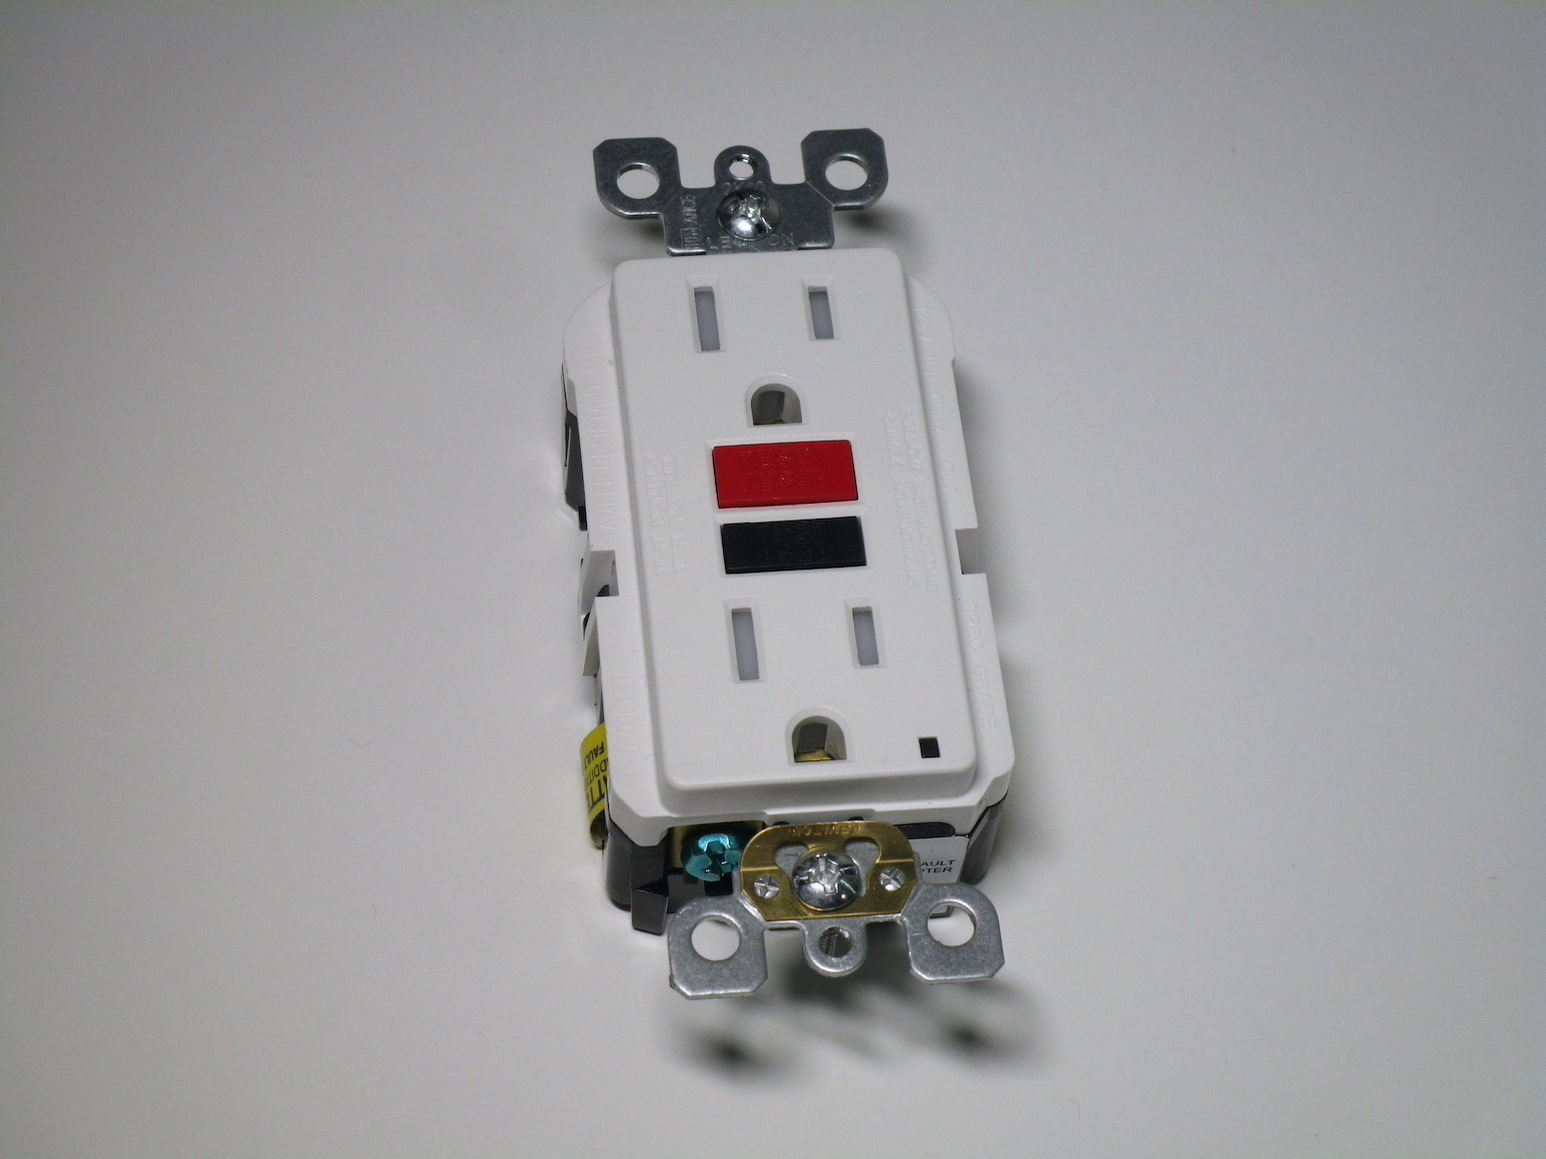
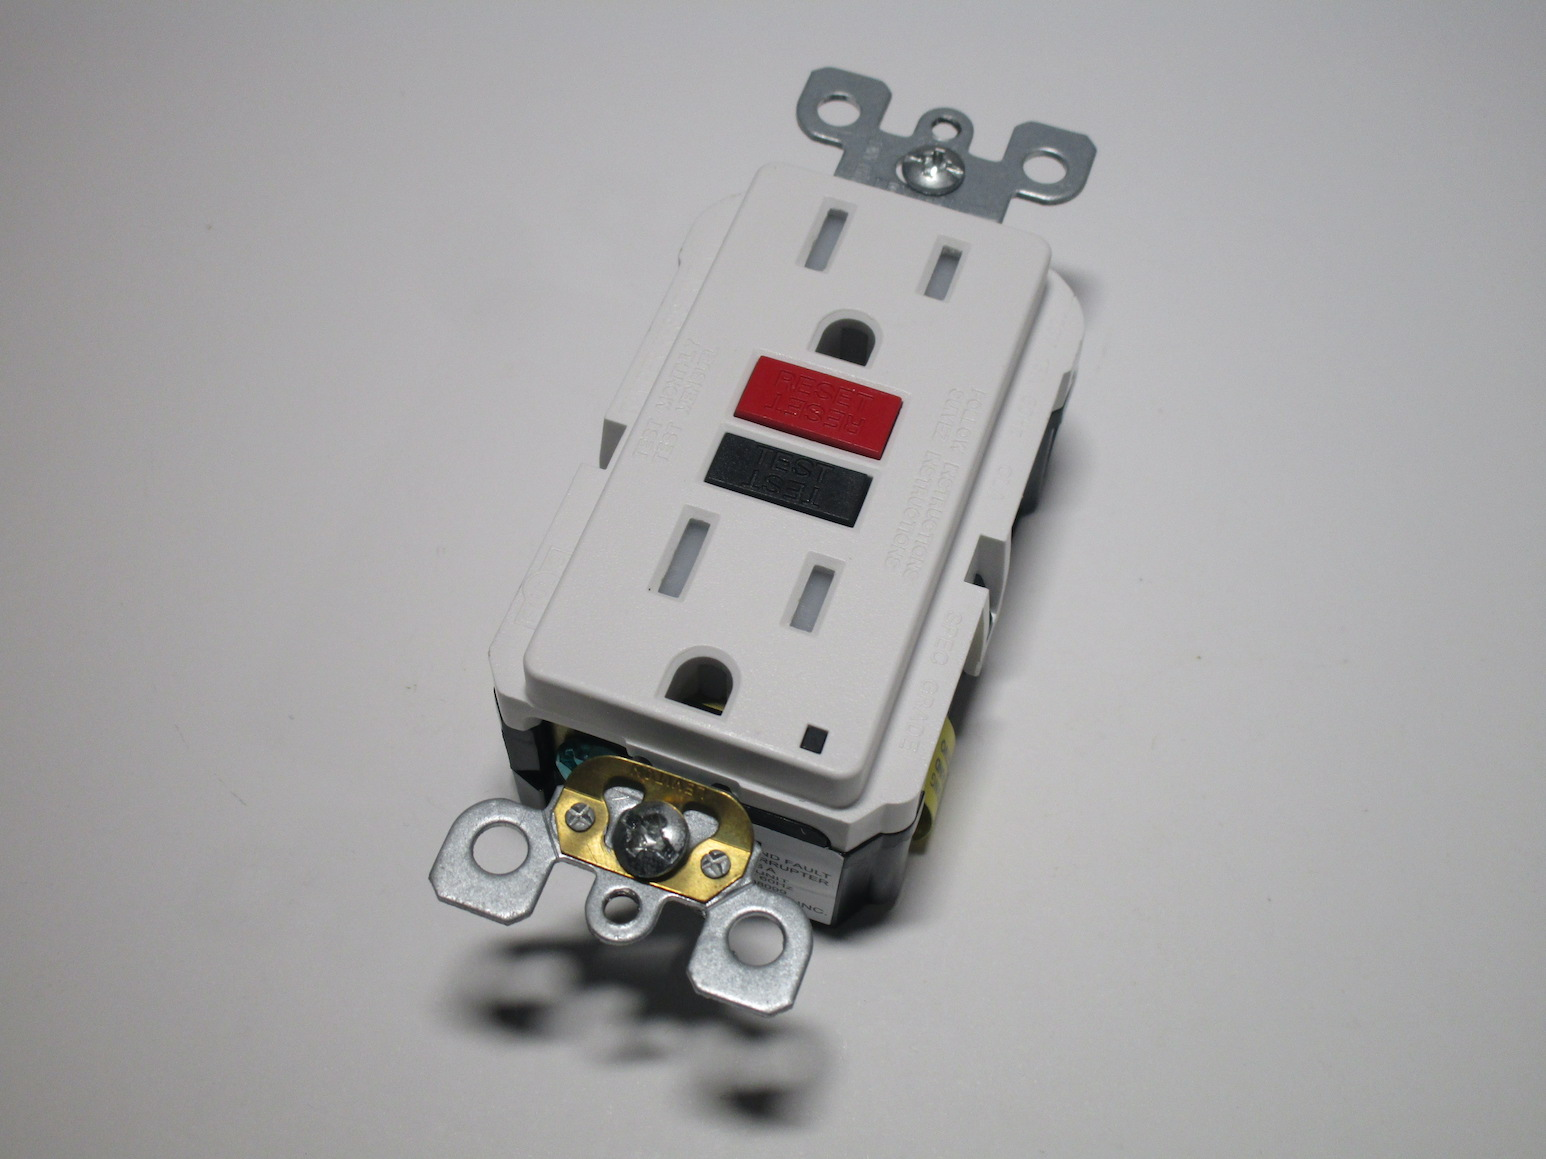
new pics and updates

Changed region(s): [[0.0, 0.0, 0.9625, 0.994], [0.6831, 0.2174, 0.7141, 0.2485]]

diff --git a/other/electrical_stuff/foreign_stuff_european.html b/other/electrical_stuff/foreign_stuff_european.html
@@ -4,7 +4,7 @@
 <title>Electrical items from Europe</title>
 <meta charset="utf-8">
 <meta name="viewport" content="width=device-width, initial-scale=1">
-<meta name="description" content="An overview of electrical items in the rest of Europe, how they're built, and how they're wired up.">
+<meta name="description" content="An overview of electrical items present in most of Europe, how they're built, and how they're wired up.">
 <meta name="author" content="samuele963">
 <link rel="stylesheet" href="../../styles.css">
 <link rel="icon" type="image/png" href="favicon.png">
@@ -18,14 +18,14 @@
 
 <div class="content">
   <h2>Electrical items from other European countries</h2>
-  <h3 id="german">Continental European items</h3>
   <p>
     This is an overview of the electrical items used in most of Europe (which are often based on German standards).
-    While similar, generally, to Italian stuff, there are still quite a few differences, primarily in the sockets
+    While similar, generally, to Italian devices, there are still quite a few differences, primarily in the sockets
     (European wall boxes are different from modern Italian ones and thus the sockets are designed totally differently)
     and certain elements of the way power is distributed inside a home.
   </p>
 
+  <h3 id="german">German-style ("Schuko") plugs and sockets</h3>
   <h4>Standard Schuko socket</h4>
   <p><i>Rating: 16A 250V</i></p>
   <p>
@@ -37,6 +37,10 @@
     The socket is installed by removing the single screw on the front, which removes the front plastic piece.
     It is then possible to wire it up and install it, then the cover plate can be installed and finally the
     front plastic can be reinstalled.
+  </p>
+  <p>
+    Notably, this socket has safety shutters - not all countries in Europe mandate this universally, though shuttered
+    sockets are generally always easily available in hardware stores, and present on power strips or extension cords.
   </p>
   <a href="images/foreign/german_01a.jpg"><img src="images/foreign/german_01a.jpg" height="140"></a>
   <a href="images/foreign/german_01b.jpg"><img src="images/foreign/german_01b.jpg" height="140"></a>
@@ -55,61 +59,6 @@
   <a href="images/foreign/german_02a.jpg"><img src="images/foreign/german_02a.jpg" height="140"></a>
   <a href="images/foreign/german_02b.jpg"><img src="images/foreign/german_02b.jpg" height="140"></a>
   <a href="images/foreign/german_02c.jpg"><img src="images/foreign/german_02c.jpg" height="140"></a>
-
-  <h4>Modern lightswitch with screwless terminals</h4>
-  <p><i>Rating: 10A 250V</i></p>
-  <p>
-    This double lightswitch, made by Legrand, is very elegant and modern-looking.<br>
-    Its main feature however is the style of terminals used to connect the wires: it uses screwless terminals,
-    something that's slowly becoming more common in Europe and which allows for a much easier and quicker installation. 
-  </p>
-  <p>
-    The way screwless terminals work depends on the specific manufacturer, however on this device wires are installed or
-    removed from a specific terminal by pushing on a small lever next to the terminal. Once let go, this holds the wire
-    extremely well and doesn't allow it to be removed (even if force is applied) unless the button is pushed again.
-  </p>
-  <a href="images/foreign/lightswitch_01a.jpg"><img src="images/foreign/lightswitch_01a.jpg" height="140"></a>
-  <a href="images/foreign/lightswitch_01b.jpg"><img src="images/foreign/lightswitch_01b.jpg" height="140"></a>
-  <a href="images/foreign/lightswitch_01c.jpg"><img src="images/foreign/lightswitch_01c.jpg" height="140"></a>
-
-  <h4>Vintage bakelite plug</h4>
-  <p><i>Rating: 10A 250V</i></p>
-  <p>
-    This old plug is of the style commonly used in most of continental Europe before the more local earthed variations.
-    Like other versions of that type of plug, it has a fairly distinctive round body, which on sockets with a deep
-    recess (unfortunately most of the sockets used with these plugs had a fairly shallow recess) make it impossible
-    to accidentally come in contact with the live pins on a partially-inserted plug.
-  </p>
-  <p>
-    Notably, this style of plug won't work with Schuko or French sockets, as on both the earth connection (and, on
-    the Schuko sockets, some extra plastic as well) interferes with the insertion of the plug.
-    Thus, this plug will only work with sockets of the period (or the Danish sockets).
-  <br>
-    Additionally, this specific plug uses 4.0mm pins, which makes it possible to use it with Italian sockets.
-  </p>
-  <a href="images/foreign_old/german_old_01a.jpg"><img src="images/foreign_old/german_old_01a.jpg" height="140"></a>
-  <a href="images/foreign_old/german_old_01b.jpg"><img src="images/foreign_old/german_old_01b.jpg" height="140"></a>
-
-  <h4 id="diazed">Diazed fuses</h4>
-  <p>
-    Diazed fuses were the standard type of fuse used in most of Europe (although, <a href="fuse_breaker_boxes.html">
-    as mentioned previously</a>, they weren't as popular in Italy).
-    They're a very clever design: the fuse is bottle-shaped, with the neck having different thicknesses depending
-    on its rating. This interfaces cleverly with the fuse holder, a standard Edison socket, which contains a
-    special plastic ring which only allows the correct size of fuse to fit.
-  </p>
-  <p>
-    Contrary to the fuse types used in <a href="foreign_stuff_american.html#fuses">North America</a>, which also used an
-    E27 screw socket, the Diazed fuses don't directly screw into the fuse holder - a separate lid is used instead,
-    which the fuse slots into.
-    <br>
-    Additionally, once the fuse is blown a small metal piece, present on the base of the fuse and coloured differently
-    depending on the fuse rating, pops out. This can be seen thanks to a window on the fuse lid and is very helpful
-    to find out which of the fuses needs to be replaced.
-  </p>
-  <a href="images/fuseboxes/fuseholder_11a.jpg"><img src="images/fuseboxes/fuseholder_11a.jpg" height="140"></a>
-  <a href="images/fuseboxes/fuseholder_11b.jpg"><img src="images/fuseboxes/fuseholder_11b.jpg" height="140"></a>
-  <a href="images/foreign/diazed_01b.jpg"><img src="images/foreign/diazed_01b.jpg" height="140"></a>
 
   <h3 id="french">French plugs and sockets</h3>
   <p>
@@ -157,7 +106,7 @@
   </p>
   <p>
     Notably, the plug used on this adaptor is French-only, instead of the CEE 7/17 one which would also work in Schuko
-    sockets - this isn't common on all French multi-way adaptorsm however, as other models were available which did in
+    sockets - this isn't common on all French multi-way adaptors, however, as other models were available which did in
     fact use a CEE 7/17 plug.
   </p>
   <a href="images/foreign/french_adaptor_01a.jpg"><img src="images/foreign/french_adaptor_01a.jpg" height="140"></a>
@@ -192,6 +141,63 @@
   <a href="images/foreign_old/french_01a.jpg"><img src="images/foreign_old/french_01a.jpg" height="140"></a>
   <a href="images/foreign_old/french_01b.jpg"><img src="images/foreign_old/french_01b.jpg" height="140"></a>
   <a href="images/foreign_old/french_01c.jpg"><img src="images/foreign_old/french_01c.jpg" height="140"></a>
+
+  <h3 id="european_unearthed">Non-earthed plugs and sockets</h3>
+  <h4>Vintage bakelite plug</h4>
+  <p><i>Rating: 10A 250V</i></p>
+  <p>
+    This old plug is of the style commonly used in most of continental Europe before the more local earthed variations.
+    Like other versions of that type of plug, it has a fairly distinctive round body, which on sockets with a deep
+    recess (unfortunately most of the sockets used with these plugs had a fairly shallow recess) make it impossible
+    to accidentally come in contact with the live pins on a partially-inserted plug.
+  </p>
+  <p>
+    Notably, this style of plug won't work with Schuko or French sockets, as on both the earth connection (and, on
+    the Schuko sockets, some extra plastic as well) interferes with the insertion of the plug.
+    Thus, this plug will only work with sockets of the period (or the Danish sockets).
+  <br>
+    Additionally, this specific plug uses 4.0mm pins, which makes it possible to use it with Italian sockets.
+  </p>
+  <a href="images/foreign_old/german_old_01a.jpg"><img src="images/foreign_old/german_old_01a.jpg" height="140"></a>
+  <a href="images/foreign_old/german_old_01b.jpg"><img src="images/foreign_old/german_old_01b.jpg" height="140"></a>
+
+  <h3>Other items</h3>
+  <h4>Modern lightswitch with screwless terminals</h4>
+  <p><i>Rating: 10A 250V</i></p>
+  <p>
+    This double lightswitch, made by Legrand, is very elegant and modern-looking.<br>
+    Its main feature however is the style of terminals used to connect the wires: it uses screwless terminals,
+    something that's slowly becoming more common in Europe and which allows for a much easier and quicker installation. 
+  </p>
+  <p>
+    The way screwless terminals work depends on the specific manufacturer, however on this device wires are installed or
+    removed from a specific terminal by pushing on a small lever next to the terminal. Once let go, this holds the wire
+    extremely well and doesn't allow it to be removed (even if force is applied) unless the button is pushed again.
+  </p>
+  <a href="images/foreign/lightswitch_01a.jpg"><img src="images/foreign/lightswitch_01a.jpg" height="140"></a>
+  <a href="images/foreign/lightswitch_01b.jpg"><img src="images/foreign/lightswitch_01b.jpg" height="140"></a>
+  <a href="images/foreign/lightswitch_01c.jpg"><img src="images/foreign/lightswitch_01c.jpg" height="140"></a>
+
+  <h4 id="diazed">Diazed fuses</h4>
+  <p>
+    Diazed fuses were the standard type of fuse used in most of Europe (although, <a href="fuse_breaker_boxes.html">
+    as mentioned previously</a>, they weren't as popular in Italy).
+    They're a very clever design: the fuse is bottle-shaped, with the neck having different thicknesses depending
+    on its rating. This interfaces cleverly with the fuse holder, a standard Edison socket, which contains a
+    special plastic ring which only allows the correct size of fuse to fit.
+  </p>
+  <p>
+    Contrary to the fuse types used in <a href="foreign_stuff_american.html#fuses">North America</a>, which also used an
+    E27 screw socket, the Diazed fuses don't directly screw into the fuse holder - a separate lid is used instead,
+    which the fuse slots into.
+    <br>
+    Additionally, once the fuse is blown a small metal piece, present on the base of the fuse and coloured differently
+    depending on the fuse rating, pops out. This can be seen thanks to a window on the fuse lid and is very helpful
+    to find out which of the fuses needs to be replaced.
+  </p>
+  <a href="images/fuseboxes/fuseholder_11a.jpg"><img src="images/fuseboxes/fuseholder_11a.jpg" height="140"></a>
+  <a href="images/fuseboxes/fuseholder_11b.jpg"><img src="images/fuseboxes/fuseholder_11b.jpg" height="140"></a>
+  <a href="images/foreign/diazed_01b.jpg"><img src="images/foreign/diazed_01b.jpg" height="140"></a>
 
   <h3 id="swiss">Swiss plugs and sockets</h3>
   <h4>T12 plugs</h4>

diff --git a/other/electrical_stuff/safety.html b/other/electrical_stuff/safety.html
@@ -146,7 +146,7 @@
 
   <h3>Residual Current Devices</h3>
   <p><i>Aka: GFCIs, RCCBs</i></p>
-  <p><img src="images/bticino_salvavita.jpg" height="170" style="float: left; padding-right: 15px; padding-top: 2px; padding-bottom: 6px;">
+  <p><img src="images/bticino_salvavita.jpg" height="175" style="float: left; padding-right: 15px; padding-top: 2px; padding-bottom: 6px;">
     One of the biggest contribution in safety has, of course, been the introduction and adoption of the RCD.
     They have been mandatory in Italy for decades, and for a very good reason: they actually help save lives.
     <br>
@@ -160,17 +160,18 @@
   <p>
     Modern RCDs are current-operated: that is, if they sense a difference in current of a certain level (typically
     30mA) between line and neutral, they trip and shut off the power.
-    However, there was a precursor to the RCD that was voltage operated: the VOELCB (Voltage Operated Earth Leakage
-    Circuit Breaker).
+    The trip current is such that, in case a person accidentlly comes in contact with a live wire, the device will
+    operate and prevent electrocution.
   </p>
   <p>
-    VOELCBs weren't all that common in Italy, but they were often used in the UK to protect installations using
-    a TT earthing system. With a TT system if there's a fault between the line and earth, the fuse or breaker
-    might not trip, depending on the type of fault, which is obviously a dangerous situation. A VOELCB would
-    instead sense the fault and kill the power to protect the user.
-    <br>
-    However, VOELCBs were just made to protect against that kind of fault - they didn't protect the user like RCDs
-    do. Because of this, they aren't generally found in homes nowadays.
+    Note that in some other countries, notably the UK, VOELCBs - that is, voltage-operated earth leakage circuit breakers,
+    were used in certain circumstances. These devices worked differently than RCDs, as they sense a voltage difference
+    betweeen the circuit earth and the "real" earth, and, in countries where they were used, were meant primarily for
+    TT installations where a fault from live to earth wouldn't necessarily blow the fuse or trip a breaker.
+  </p>
+  <p>
+    The main disadvantage to them is that they didn't protect the user from an electric shock, and thus were replaced
+    by current-operated devices (RCDs) which do offer that protection.
   </p>
 
   <h3>Safety nowadays</h3>

diff --git a/other/electrical_stuff/electrical_stuff.html b/other/electrical_stuff/electrical_stuff.html
@@ -52,11 +52,12 @@
 
   <h3>Browse pages by plug type:</h3>
   <ul>
-    <li><a href="modern_stuff.html">CEI 33-50 - Italian style (Type L)</a> (old plugs on a <a href="plugsandsockets.html">separate page</a>)</li>
+    <li><a href="foreign_stuff_american.html">NEMA 1-15 and 5-15 - American style (Types A and B)</a></li>
+    <li><a href="foreign_stuff_european.html#european_unearthed">CEE 7/1 and 7/2 - European unearthed style</a></li>
     <li><a href="foreign_stuff_european.html#german">CEE 7/3 and 7/4 - German style (Type F)</a></li>
     <li><a href="foreign_stuff_european.html#french">CEE 7/5 and 7/6 - French style (Type E)</a></li>
     <li><a href="foreign_stuff_european.html#swiss">SN 441011 - Swiss style (Type J)</a></li>
-    <li><a href="foreign_stuff_american.html">NEMA 5-15 and 5-20 - American style (Types A and B)</a></li>
+    <li><a href="modern_stuff.html">CEI 33-50 - Italian style (Type L)</a> (old plugs on a <a href="plugsandsockets.html">separate page</a>)</li>
   </ul>
 
   <h3>Videos and Twitter threads:</h3>
@@ -69,9 +70,9 @@
 
   <h3>External resources:</h3>
   <ul>
-    <li>The excellent <a href="https://plugsocketmuseum.nl/">Museum of Plugs and Sockets</a></li>
-    <li><a href="http://www.flameport.com/electric_museum/index.cs4">Museum of Old Electrical Items</a> (for UK electrical items)</li>
-    <li><a href="https://en.wikipedia.org/wiki/AC_power_plugs_and_sockets">AC power plugs and sockets - Wikipedia</a></li>
+    <li>The excellent <a href="https://plugsocketmuseum.nl/" target="_blank">Museum of Plugs and Sockets</a></li>
+    <li><a href="http://www.flameport.com/electric_museum/index.cs4" target="_blank">Museum of Old Electrical Items</a> (for UK electrical items)</li>
+    <li><a href="https://en.wikipedia.org/wiki/AC_power_plugs_and_sockets" target="_blank">AC power plugs and sockets - Wikipedia</a></li>
   </ul>
 
   <hr>

diff --git a/other/electrical_stuff/foreign_stuff_american.html b/other/electrical_stuff/foreign_stuff_american.html
@@ -67,10 +67,12 @@
   <a href="images/foreign/american/outlet_02b.jpg"><img src="images/foreign/american/outlet_02b.jpg" height="140"></a>
   <a href="images/foreign/american/outlet_02c.jpg"><img src="images/foreign/american/outlet_02c.jpg" height="140"></a>
 
-  <!-- <h4>GFCI power socket</h4>
+  <h4>GFCI power socket</h4>
   <p><i>Rating: 15A 125V (20A feed-through)</i></p>
   <p></p>
-  <a href="images/foreign/american/gfci_01a.jpg"><img src="images/foreign/american/gfci_01a.jpg" height="140"></a> -->
+  <a href="images/foreign/american/gfci_01a.jpg"><img src="images/foreign/american/gfci_01a.jpg" height="140"></a>
+  <a href="images/foreign/american/gfci_01b.jpg"><img src="images/foreign/american/gfci_01b.jpg" height="140"></a>
+  <a href="images/foreign/american/gfci_01c.jpg"><img src="images/foreign/american/gfci_01c.jpg" height="140"></a>
 
   <h4>20A power outlet</h4>
   <p><i>Rating: 20A 125V</i></p>

diff --git a/other/electrical_stuff/safety2.html b/other/electrical_stuff/safety2.html
@@ -21,13 +21,16 @@
   <h2>Electrical safety around the world</h2>
   <p></p>
 
-  <h3>Shutters on power sockets</h3>
+  <h3>Safety shutters on power sockets</h3>
   <a href="images/safety/shutters_01a.jpg"><img src="images/safety/shutters_01a.jpg" height="140"></a>
   <a href="images/safety/shutters_02a.jpg"><img src="images/safety/shutters_02a.jpg" height="140"></a>
   <a href="images/safety/shutters_03a.jpg"><img src="images/safety/shutters_03a.jpg" height="140"></a>
 
-
-
+  <h3>Additional protection</h3>
+  <h4>Residual Current Device (RCD) / Ground Fault Circuit Interrupter (GFCI)</h4>
+  <a href="images/safety/rcd_01.jpg"><img src="images/safety/rcd_01.jpg" height="140"></a>
+  <a href="images/fuseboxes/rcd_01a.jpg"><img src="images/fuseboxes/rcd_01a.jpg" height="140"></a>
+  <a href="images/foreign/american/gfci_01a.jpg"><img src="images/foreign/american/gfci_01a.jpg" height="140"></a>
 
 
 

diff --git a/other/electrical_stuff/fuse_breaker_boxes.html b/other/electrical_stuff/fuse_breaker_boxes.html
@@ -148,7 +148,9 @@
     line connection only.
   </p>
   <p>
-    A control dial is present next to the output connection in order to set the trip current of the device.
+    A control dial is present next to the output connection in order to adjust the trip current of the device,
+    with the actual trip current being set by different types of shunts on the back (which would have come in the box).
+    <br>
     There is also the same label as seen on the previous one, but without an amp rating written on it, since this
     would have been set by the user (this could be set between 5 and 25A).
   </p>

diff --git a/other/electrical_stuff/modern_stuff.html b/other/electrical_stuff/modern_stuff.html
@@ -15,7 +15,7 @@
 </div>
 
 <div class="content">
-  <h2>Modern electrical stuff</h2>
+  <h2>Modern Italian electrical items</h2>
   <h3>Types of plugs</h3>
   <p><img src="images/modern/plugs_compared.jpg" height="100" style="float: right; padding-left: 15px; padding-top: 0px; padding-bottom: 6px;">
     As mentioned in the <a href="general_info.html">introductory page</a>, Italy uses a few different types of plugs.
